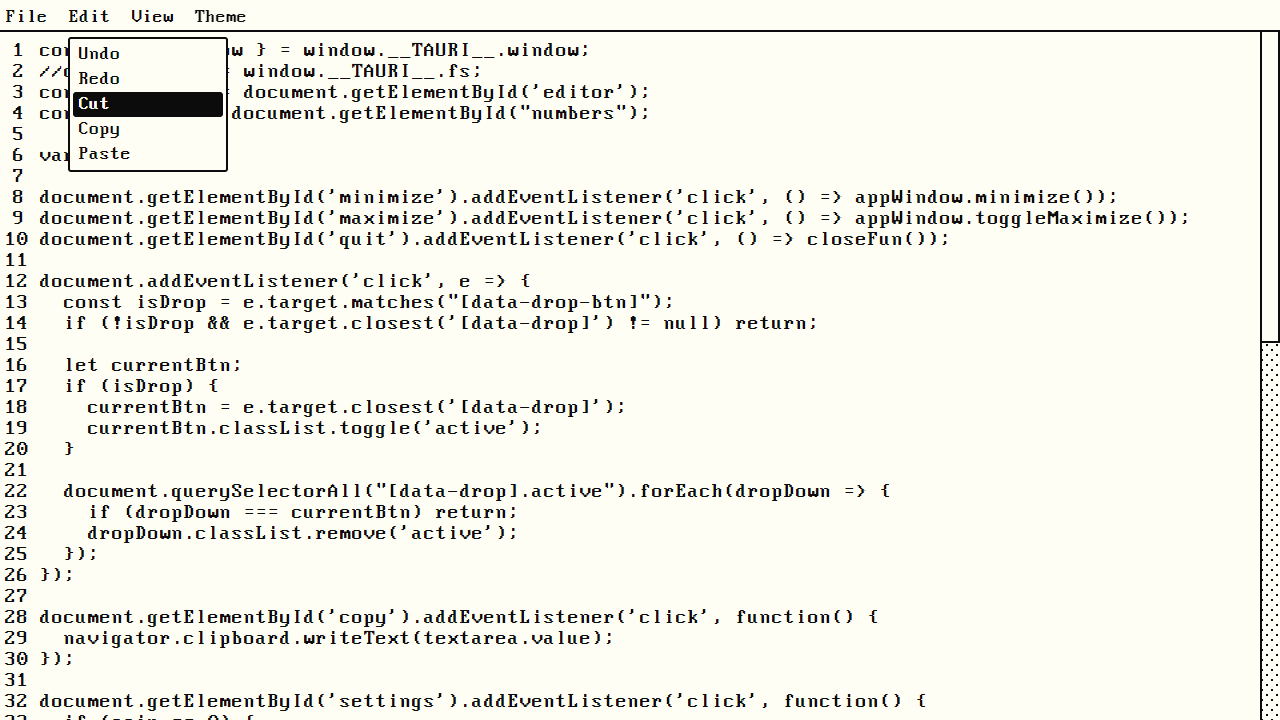
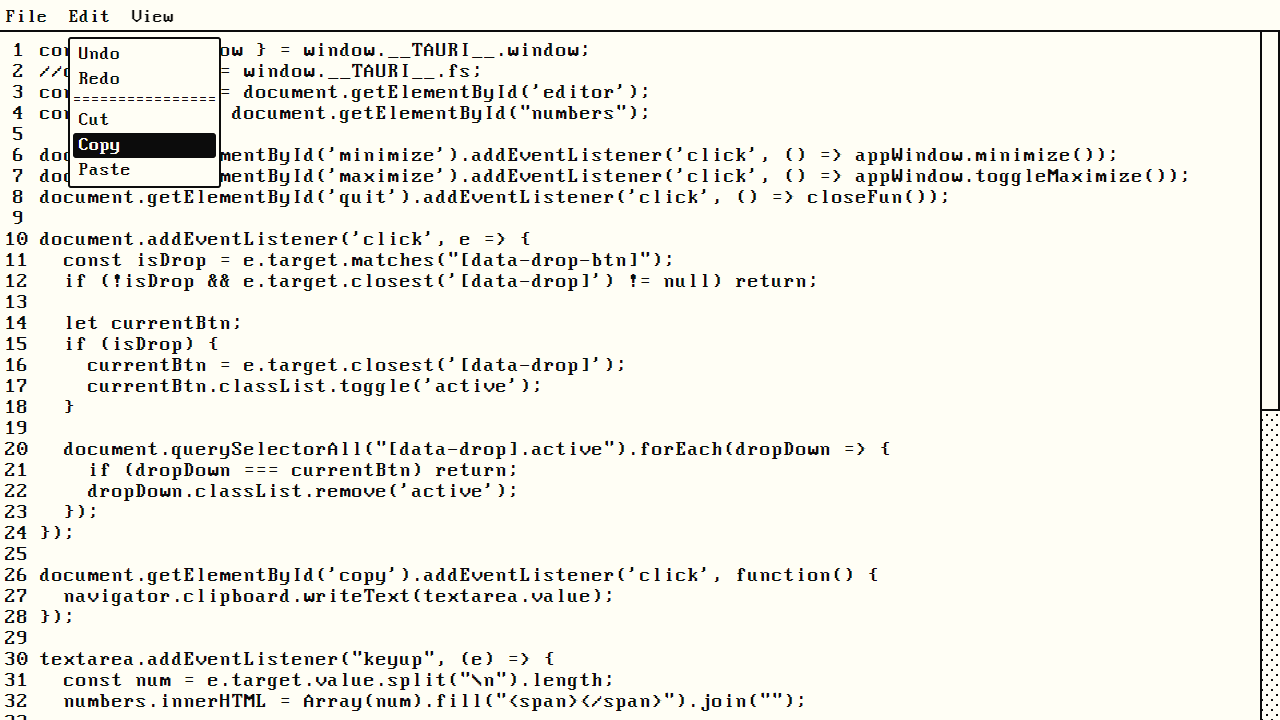
rearranged ui

Changed region(s): [[0.0312, 0.0611, 0.9062, 1.0], [0.0938, 0.0, 0.1875, 0.0306], [0.5938, 0.8556, 0.6562, 0.8861]]

diff --git a/NTPad/src/index.html b/NTPad/src/index.html
@@ -17,6 +17,7 @@
           <button class="menu-btn">Open</button>
           <button class="menu-btn">Save As</button>
           <button class="menu-btn">Save</button>
+          <span class="breaker">================</span>
           <button class="menu-btn" id="quit">Quit</button>
         </div>
       </div>
@@ -25,6 +26,7 @@
         <div class="drop-menu">
           <button class="menu-btn">Undo</button>
           <button class="menu-btn">Redo</button>
+          <span class="breaker">================</span>
           <button class="menu-btn">Cut</button>
           <button class="menu-btn" id="copy">Copy</button>
           <button class="menu-btn">Paste</button>
@@ -35,11 +37,7 @@
         <div class="drop-menu">
           <button class="menu-btn" id="maximize">Fullscreen</button>
           <button class="menu-btn" id="minimize">Minimize</button>
-        </div>
-      </div>
-      <div class="dropdown" data-drop>
-        <button class="nav-btns" id="view" data-drop-btn>Theme</button>
-        <div class="drop-menu">
+          <span class="breaker">================</span>
           <button class="theme-btn" value="default">Default</button>
           <button class="theme-btn" value="red">Red</button>
           <button class="theme-btn" value="blue">Blue</button>

diff --git a/NTPad/src/styles.css b/NTPad/src/styles.css
@@ -75,7 +75,7 @@ body, html {
   position: absolute;
   left: 5px;
   top: 32px;
-  width: 150px;
+  width: 143px;
   height: auto;
   z-index: 9999;
   display: none;
@@ -123,6 +123,10 @@ body, html {
   font-size: 14pt;
   color: var(--foreground);
   cursor: pointer;
+}
+
+.breaker {
+  color: var(--foreground);
 }
 
 #textcontainer {
